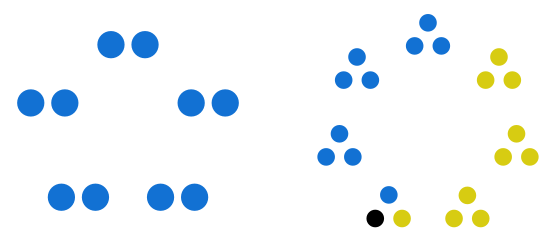
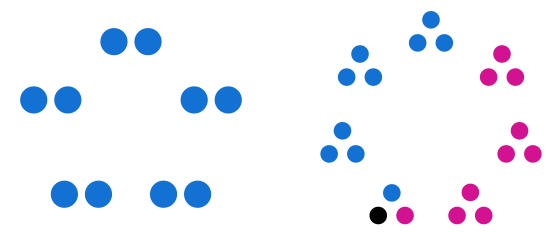
add eucalg exposition, update 21_10 diagrams

diff --git a/eucalg/js/diagram.js b/eucalg/js/diagram.js
@@ -125,9 +125,16 @@ function draw ( canvas, fs, cx, cy, s, color_config) {
 //                                   {number: 1, color: '#1271d3'}] );
 
 // 21_10_rem1
+/*
 draw (c1, [5, 2], 150, 300, 115, [{number: 5, color: '#1271d3'}] );
-draw (c1, [7, 3], 450, 300, 115, [{number: 3, color: '#d7cc12'},
+draw (c1, [7, 3], 450, 300, 115, [{number: 3, color: '#d31292'},
                                    {number: 3, color: '#1271d3'}] );
+*/
+
+// 21_10_rem1
+draw (c1, [5, 2], 150, 300, 115, [{number: 5, color: '#1271d3'}] );
+draw (c1, [3, 7], 450, 300, 115, [{number: 1, color: '#d31292'},
+                                   {number: 1, color: '#1271d3'}] );
 
 //draw (c1, [7, 2, 3], 300, 300, 270 );
 //draw (c2, [5, 4, 3], 300, 300, 270 );

diff --git a/eucalg.md b/eucalg.md
@@ -71,7 +71,11 @@ What happens when the groups that make up number **a** and number **b** are inco
 
 In the process of taking 10's from 21, we had to break apart one of the groups of 3 that make up 21. In fact, we aren't subtracting groups of 3 from 21 at all, but are instead just taking 10 dots away from the right side. How we group them doesn't appear to matter.
 
-One might allege that perhaps this was just an incidental feature of the way we *arbitrarily chose* to group up the units in 21.
+One might allege: perhaps this was just an incidental feature of the way we *arbitrarily chose* to group up the units in 21. Perhaps if we represent 21 as 3 groups of 7, then the euclidean algorithm won't break up a group:
+
+![](images/21_10_rem1_reorder.png)
+
+Okay, that proves it in the case of the pair (21, 7), but do we have a generic argument for *any* pair of numbers? If we take a pair of numbers and
 
 
 
